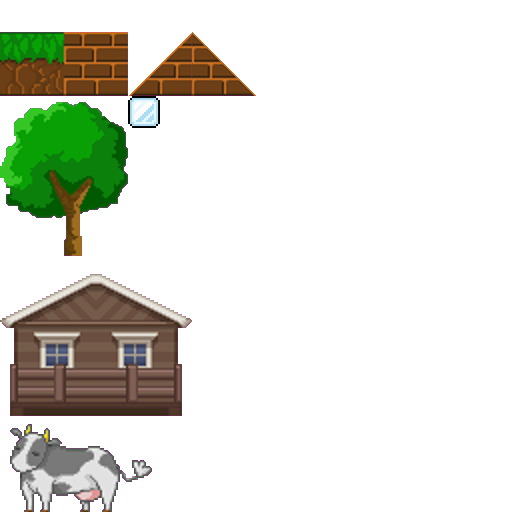
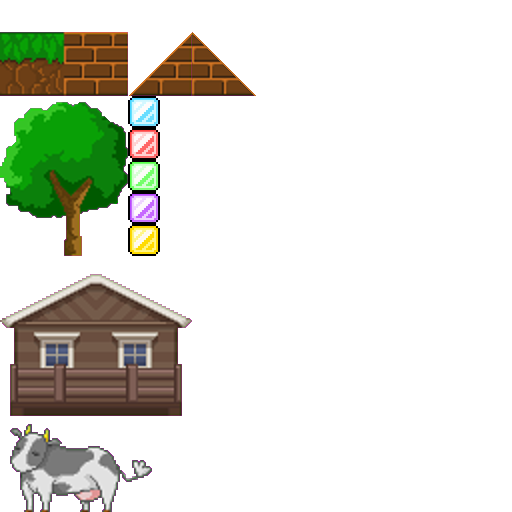
レバーとレバーで消えるブロックの実装

Changed region(s): [[0.25, 0.1875, 0.3125, 0.5]]

diff --git a/LeverBrock.cpp b/LeverBrock.cpp
@@ -31,7 +31,7 @@ void LeverBrock::Draw()
 	int x = (int)transform_.position_.x;
 	int y = (int)transform_.position_.y;
 
-	DrawRectGraph(x- fi->Getscroll(), y, LB_SIZE.w *4, LB_SIZE.h * 3, LB_SIZE.w, LB_SIZE.h, hImage, TRUE);
+	DrawRectGraph(x - fi->Getscroll(), y, LB_SIZE.w * 4, LB_SIZE.h * (3+LeverBrockID), LB_SIZE.w, LB_SIZE.h, hImage, TRUE);
 }
 
 void LeverBrock::Release()

diff --git a/Field.cpp b/Field.cpp
@@ -397,6 +397,11 @@ bool Field::IsWallBlock(int x, int y)
 	case 33:
 	case 34:
 	case 35:
+	case 610:
+	case 611:
+	case 612:
+	case 613:
+	case 614:
 		return true;
 	}
 	return false;
